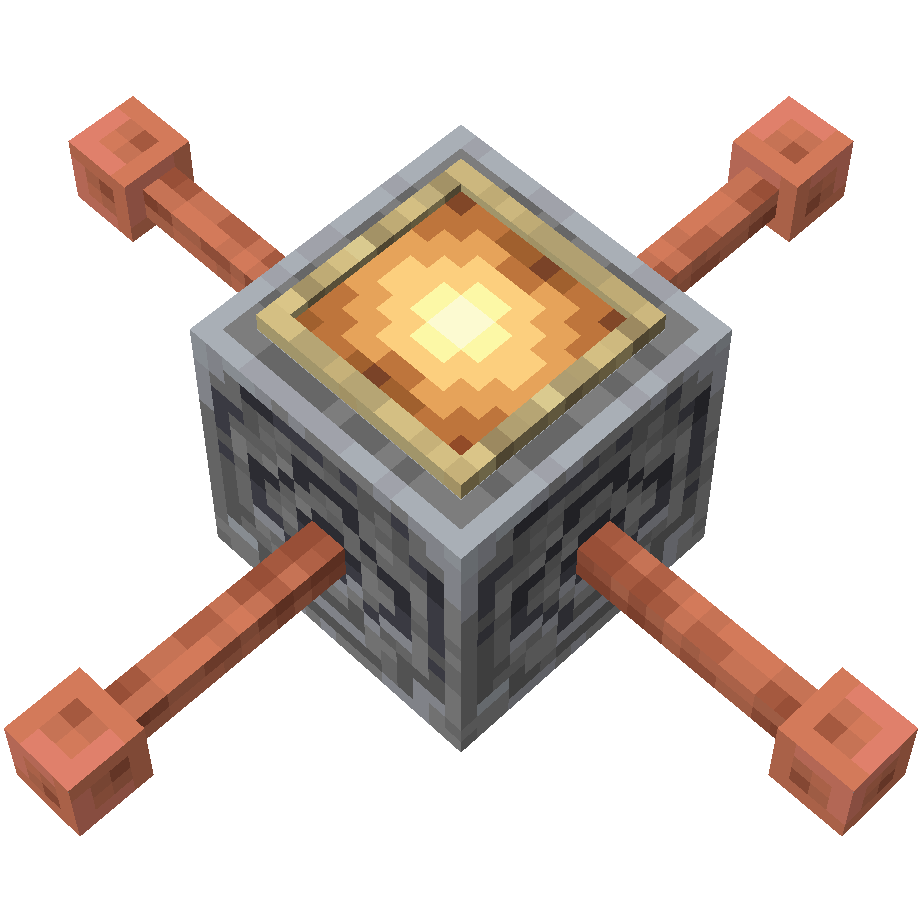
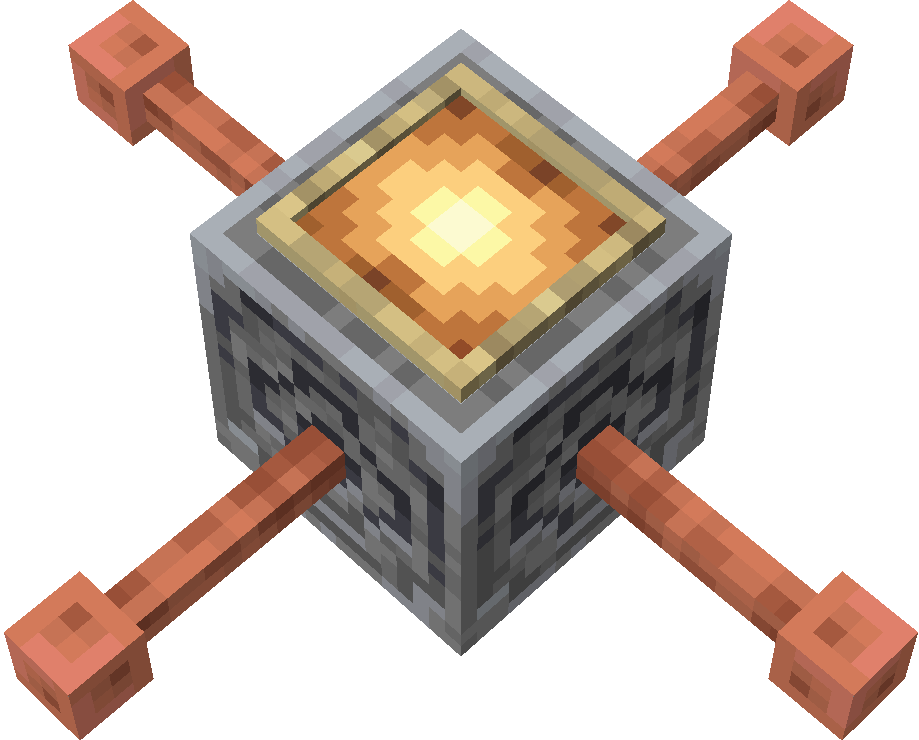
add altar image

diff --git a/docs/index.html b/docs/index.html
@@ -109,24 +109,30 @@
             <p class="ul-header">
               Building an altar out of the following ingredients will allow you to summon a thunderstorm manually.
             </p>
-            <ul class="parent">
-              <li>
-                <img class="icon" src="https://minecraft.wiki/images/Lightning_Rod_(U)_JE3.png"/>
-                <span class="icon"><i>4x</i> Lightning Rod</span>
-              </li>
-              <li>
-                <img class="icon" src="https://minecraft.wiki/images/Lodestone_JE1_BE1.png"/>
-                <span class="icon"><i>1x</i> Lodestone</span>
-              </li>
-              <li>
-                <img class="icon" src="https://minecraft.wiki/images/Invicon_Glow_Item_Frame.png"/>
-                <span class="icon"><i>1x</i> Glow Item Frame</span>
-              </li>
-            </ul>
+            <div style="display: inline-block; width: 100%">
+              <ul class="parent" style="float: left" >
+                <li>
+                  <img class="icon" src="https://minecraft.wiki/images/Lightning_Rod_(U)_JE3.png"/>
+                  <span class="icon"><i>4x</i> Lightning Rod</span>
+                </li>
+                <li>
+                  <img class="icon" src="https://minecraft.wiki/images/Lodestone_JE1_BE1.png"/>
+                  <span class="icon"><i>1x</i> Lodestone</span>
+                </li>
+                <li>
+                  <img class="icon" src="https://minecraft.wiki/images/Invicon_Glow_Item_Frame.png"/>
+                  <span class="icon"><i>1x</i> Glow Item Frame</span>
+                </li>
+              </ul>
+              <div class="altar">
+                <img src="img/altar.png" style="height: 60pt;" />
+                <div style="color: var(--c-text);">an altar</div>
+              </div>
+            </div>
             <h4>Usage</h4>
             <p>
               To start a thunderstorm, place a <img class="icon" src="https://minecraft.wiki/images/Heart_of_the_Sea_JE1_BE2.png" />
-              <b style="padding-left: 22pt">Heart of the Sea</b> into the Glow Item Frame and take a step back.
+              <b style="padding-left: 22pt;">Heart of the Sea</b> into the Glow Item Frame and take a step back.
               Lightning will strike the altar. A thunderstorm will begin, and it will stop in accordance with Minecraft's
               <a href="https://minecraft.wiki/w/Thunderstorm#Behavior">thunder counter</a>.
             </p>

diff --git a/docs/style.css b/docs/style.css
@@ -260,6 +260,18 @@ ul.parent {
   margin-bottom: 14pt;
 }
 
+.altar {
+  height: 60pt;
+  display: block;
+  padding: auto;
+  text-align: center;
+}
+
+.altar * {
+  display: block;
+  margin: auto;
+}
+
 @media (min-width: 770pt) {
   .column.recipes {
     min-width: 304pt;
